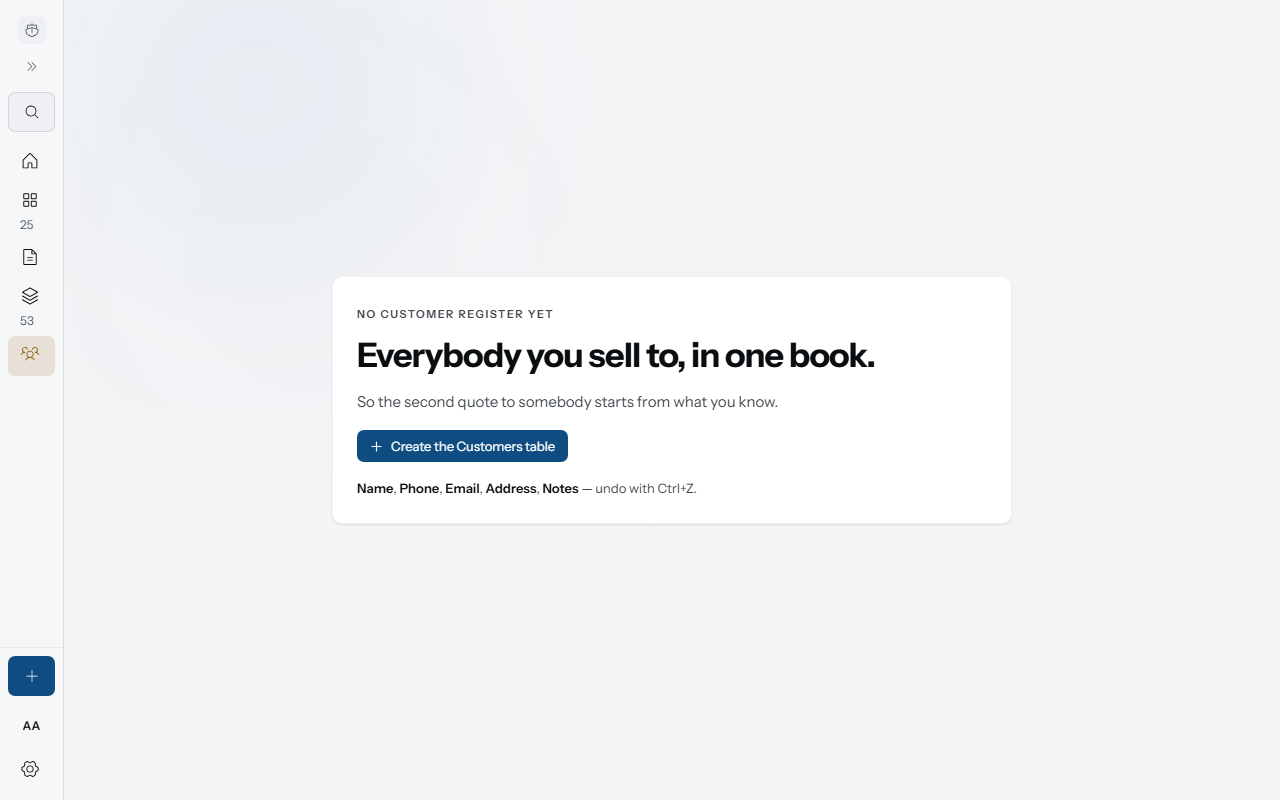
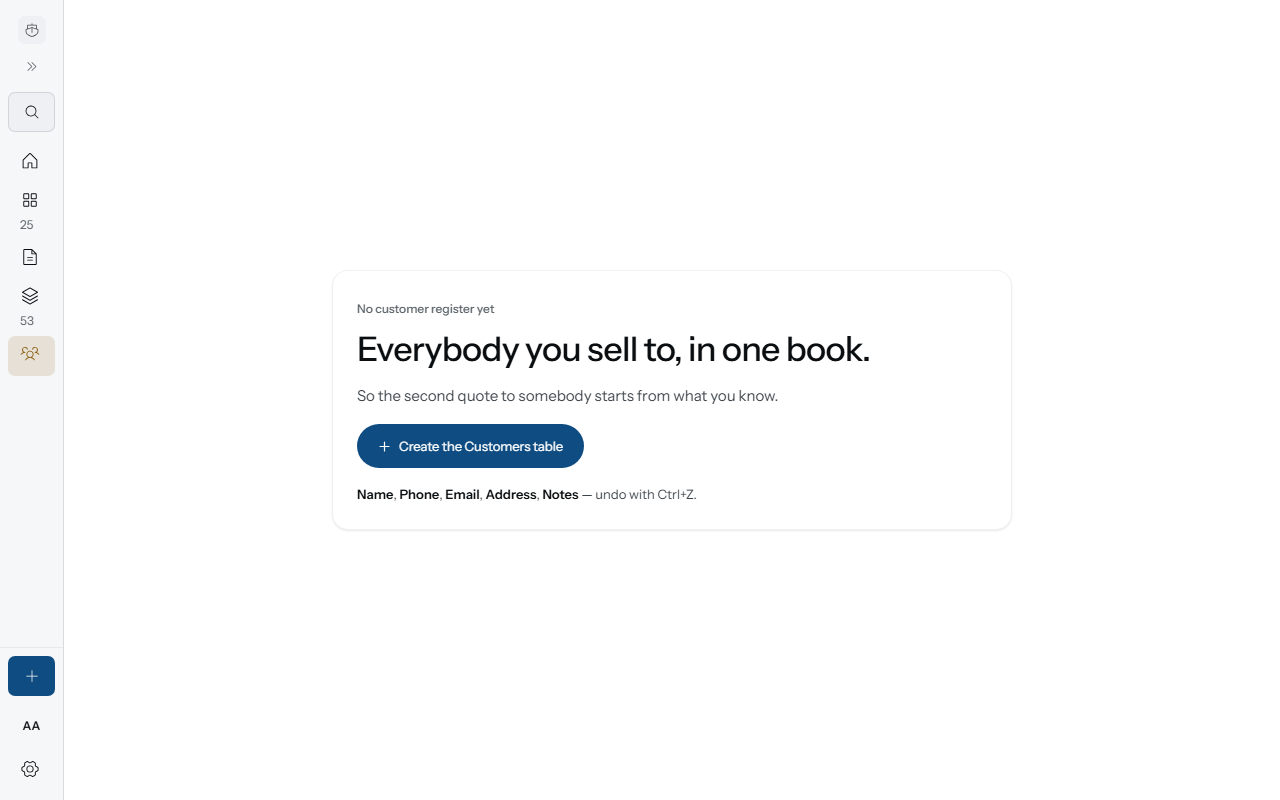
The customers register leads every row with the person, in the same language
"Now do the same Porsche treatment on the customers screen." Porsche
keeps no public register of people, so the reference is the one the
quotes register took an hour earlier, read off Finder: a title pair,
the list a white card on a 16px radius, every row led by a picture,
sentence case throughout, one blue pill. A person on this sheet has no
photograph, so the row leads with their initials on a disc — markOf,
the same function the catalogue uses for a hull with no picture — and
the disc takes the action hue when the row is marked. The aurora sky
behind the page is off; the foot with the keyboard help is a card; the
count of quotes is a chip only on a register where somebody has been
quoted.

The seed carries no customer register, so every photograph of this
screen until tonight was of its empty state. tools/shot-customers.mjs
creates one, issues a quote to a named person, types two people in
through the screen's own form and photographs the list — and the first
frame showed the sixth thing on a row wrapping under a five-track grid.
Six tracks now.

Measured after: types clean, lint 343/343, the register's 66 tests
pass (one tab stop, arrows, J/K, X, Shift, Ctrl+A — untouched); nothing
overlaps; 1,286 text nodes clear contrast; sweep clean at 2.83x; 14 of
14 baselines re-taken.

Claude-Session: https://claude.ai/code/session_01MC1ZgThVvEeHFfPaBTEjJA

Changed region(s): [[0.2812, 0.375, 0.6875, 0.625]]

diff --git a/src/features/crm/crm.css b/src/features/crm/crm.css
@@ -1477,3 +1477,271 @@
   margin: 0;
   width: min(680px, calc(100% - var(--page-gutter) * 2));
 }
+
+/* ============================================================
+   THE REGISTER OF PEOPLE, IN PORSCHE'S LANGUAGE — 2026-09-15.
+
+   The same language the quotes register took the same evening,
+   read off Porsche Finder: a title pair, no uppercase and no mono,
+   the list a white card on a 16px radius, every row led by a
+   picture, one blue pill. A person on this sheet has no
+   photograph, so the row leads with their initials on a disc.
+
+   The aurora sky behind the page goes: the app is white now, and
+   a violet gradient behind a Cockpit register was the dark room's
+   idea of depth. The paper tokens this file was written on
+   (`--paper`, `--ink-*`) stay declared; the rules below take the
+   app's own.
+   ============================================================ */
+
+.cx-root {
+  background: var(--surface-1);
+}
+
+.cx-sky {
+  display: none;
+}
+
+/* -- the head: a title pair, one blue pill ---------------------- */
+
+.cx-root .ph-name {
+  font-size: var(--t-display-size);
+  font-weight: 500;
+  line-height: 1.05;
+  letter-spacing: -0.02em;
+  color: var(--fg);
+}
+
+.cx-root .ph-count {
+  font-family: var(--font-sans);
+  font-size: var(--t-heading-size);
+  font-weight: 400;
+  letter-spacing: 0;
+  color: var(--fg-secondary);
+}
+
+.cx-root .ph-line {
+  color: var(--fg-tertiary);
+}
+
+.cx-root .ph-acts .ui-btn--primary {
+  min-height: 44px;
+  padding-inline: var(--s-5);
+  border-radius: 999px;
+}
+
+.cx-root .ph-tools .ui-field-input,
+.cx-find .ui-field-input {
+  border: var(--border) solid var(--line-strong);
+  border-radius: 999px;
+  background: var(--surface-1);
+  padding-inline: var(--s-4);
+}
+
+.cx-find .ui-field-input:focus {
+  border-color: var(--fg);
+  box-shadow: none;
+}
+
+.cx-find .ui-field-label {
+  color: var(--fg-tertiary);
+}
+
+/* -- the book is a card ----------------------------------------- */
+
+.cx-book {
+  border: var(--border) solid var(--line);
+  border-radius: 16px;
+  background: var(--surface-1);
+  box-shadow: var(--e-card);
+  overflow: hidden;
+}
+
+.cx-shown {
+  color: var(--fg-tertiary);
+  font-family: var(--font-sans);
+}
+
+.cx-row {
+  contain-intrinsic-size: auto 60px;
+}
+
+.cx-row-open {
+  grid-template-columns: 40px minmax(0, 1.1fr) minmax(0, 1.4fr) auto auto;
+  gap: var(--s-4);
+  min-height: 60px;
+  padding: var(--s-2) var(--s-5) var(--s-2) var(--s-5);
+  border-left: 0;
+  border-bottom: var(--border) solid var(--line);
+}
+
+.cx-rows > :last-child > .cx-row-open {
+  border-bottom: 0;
+}
+
+@media (hover: hover) and (pointer: fine) {
+  .cx-row-open:hover {
+    background: var(--surface-2);
+  }
+}
+
+.cx-row.is-open > .cx-row-open {
+  background: color-mix(in srgb, var(--action) 6%, var(--surface-1));
+}
+
+.cx-row-mark {
+  display: inline-grid;
+  place-items: center;
+  width: 40px;
+  height: 40px;
+  border-radius: 999px;
+  background: var(--surface-3);
+  color: var(--fg-secondary);
+  font-size: var(--t-small-size);
+  font-weight: 600;
+  letter-spacing: 0.02em;
+}
+
+.cx-row.is-picked .cx-row-mark {
+  background: var(--action);
+  color: var(--action-fg);
+}
+
+.cx-row-name {
+  font-size: var(--t-body-size);
+  font-weight: 600;
+  letter-spacing: 0;
+  color: var(--fg);
+}
+
+.cx-row-contact {
+  color: var(--fg-tertiary);
+}
+
+.cx-row-when {
+  font-family: var(--font-sans);
+  font-size: var(--t-caption-size);
+  color: var(--fg-tertiary);
+}
+
+.cx-row-worth {
+  font-family: var(--font-sans);
+  font-weight: 600;
+  font-variant-numeric: tabular-nums;
+  color: var(--fg);
+}
+
+.cx-row-count {
+  display: inline-block;
+  min-width: 0;
+  padding: 2px var(--s-3);
+  border-radius: 999px;
+  background: color-mix(in srgb, var(--action) 12%, var(--surface-1));
+  color: var(--action);
+  font-family: var(--font-sans);
+  font-size: var(--t-caption-size);
+  font-weight: 500;
+  line-height: 1.6;
+}
+
+.cx-num {
+  font-family: var(--font-sans);
+  font-variant-numeric: tabular-nums;
+}
+
+.cx-blank {
+  color: var(--fg-tertiary);
+  font-style: italic;
+}
+
+/* the pick box sits in the mark's disc, not in a gutter */
+.cx-pick {
+  left: var(--s-3);
+}
+
+/* -- the foot is a card too ------------------------------------- */
+
+.cx-foot {
+  border: var(--border) solid var(--line);
+  border-radius: 16px;
+  background: var(--surface-1);
+  box-shadow: var(--e-card);
+  backdrop-filter: none;
+  -webkit-backdrop-filter: none;
+}
+
+.cx-foot-say {
+  color: var(--fg-secondary);
+  font-family: var(--font-sans);
+}
+
+.cx-key {
+  border-color: var(--line);
+  background: var(--surface-2);
+  color: var(--fg-secondary);
+}
+
+/* -- the empty state ------------------------------------------ */
+
+.cx-empty .ui-card,
+.cx-empty > div {
+  border-radius: 16px;
+}
+
+.cx-empty-title {
+  font-size: var(--t-display-size);
+  font-weight: 500;
+  letter-spacing: -0.02em;
+  color: var(--fg);
+}
+
+.cx-empty-say,
+.cx-empty-why {
+  color: var(--fg-secondary);
+}
+
+.cx-empty .ui-btn--primary {
+  min-height: 44px;
+  padding-inline: var(--s-5);
+  border-radius: 999px;
+}
+
+.cx-none {
+  color: var(--fg-tertiary);
+}
+
+/* every caption on this register is sentence case in the body face */
+.cx-root .ui-section-caption,
+.cx-empty .ui-section-caption,
+.cx-root .mono-label {
+  font-family: var(--font-sans);
+  font-size: var(--t-caption-size);
+  font-weight: 500;
+  letter-spacing: 0;
+  text-transform: none;
+  color: var(--fg-tertiary);
+}
+
+/* the row holds six things when somebody is quoted — the mark, the
+   name, the contact, the day, the worth and the count — and a
+   five-track grid wrapped the sixth onto its own line. And the count
+   is a chip only on a register where somebody has been quoted; on
+   one where nobody has, a dash in a blue chip is a chip about
+   nothing. */
+.cx-row-open {
+  grid-template-columns: 40px minmax(0, 1.1fr) minmax(0, 1.4fr) auto auto auto;
+}
+
+.cx-row-count {
+  padding: 0;
+  border-radius: 0;
+  background: none;
+  color: var(--fg-tertiary);
+}
+
+.cx-rows--quoted .cx-row-count {
+  padding: 2px var(--s-3);
+  border-radius: 999px;
+  background: color-mix(in srgb, var(--action) 12%, var(--surface-1));
+  color: var(--action);
+}

diff --git a/src/features/crm/CustomerList.tsx b/src/features/crm/CustomerList.tsx
@@ -49,6 +49,7 @@ import { Plus } from '@phosphor-icons/react'
 import { useProjectStore } from '@/store/useProjectStore'
 import { ICON_SIZE } from '@/lib/icons'
 import { money } from '@/lib/money'
+import { markOf } from '@/lib/mark'
 import { Button, Card, Field, SectionHead } from '@/ui'
 import { PageHead } from '@/features/page'
 import { Picker } from '@/features/picker'
@@ -714,6 +715,16 @@ export function CustomerList({ onOpen, openId }: CustomerListProps): ReactElemen
                         }}
                         aria-label={who}
                       >
+                        {/* THE MARK LEADS THE ROW. Porsche's list leads
+                            every row with the car; a person has no
+                            photograph on this sheet, so the row leads
+                            with their initials on a disc — the same
+                            `markOf` the catalogue uses for a hull with
+                            no picture. Hidden from the reader: the name
+                            beside it says it. */}
+                        <span className="cx-row-mark" aria-hidden="true">
+                          {c.name === '' ? '·' : markOf(c.name)}
+                        </span>
                         <span className="cx-row-name">
                           {c.name === '' ? (
                             <span className="cx-blank">no name yet</span>

diff --git a/src/app/shell.css b/src/app/shell.css
@@ -3452,3 +3452,9 @@
     background: var(--surface-1);
   }
 }
+
+@media (max-width: 1024px) {
+  .shell-body:has(.cx-root) {
+    background: var(--surface-1);
+  }
+}

diff --git a/docs/research/visual-qa-rebuild.md b/docs/research/visual-qa-rebuild.md
@@ -405,3 +405,27 @@ now.
 | `check-contrast` | 1,286 text nodes, all clear |
 | `qa-sweep` | clean; quotes 2.83× |
 | `check:shots --update` | 14 of 14 re-taken |
+
+## 2026-09-15, late — the customers register in the same language
+
+"Now do the same Porsche treatment on the customers screen." Porsche has
+no public register of people, so the reference is the one the quotes
+register took an hour earlier (Finder): a title pair, the list a white
+card on a 16px radius, every row led by a picture, sentence case, one
+blue pill. A person on this sheet has no photograph, so every row leads
+with their initials on a disc — `markOf`, the same function the
+catalogue uses for a hull with no picture. The aurora sky behind the
+page is off. The count of quotes is a chip only on a register where
+somebody has been quoted; a dash in a blue chip is a chip about nothing.
+
+The seed carries no customer register, so `tools/shot-customers.mjs`
+now creates one, issues a quote to a named person, types two people in
+through the screen's own form and photographs the list — the first
+photograph of this screen with anybody on it. The first frame showed the
+sixth thing on a quoted row wrapping under a five-track grid; six now.
+
+| ruler | result |
+|---|---|
+| `check:types` · `lint` · register tests | clean · 343/343 · 66 passed |
+| `check-collide` · `check-contrast` · `qa-sweep` | nothing overlaps · 1,286 clear · clean, customers 2.83× |
+| `check:shots --update` | 14 of 14 re-taken |
